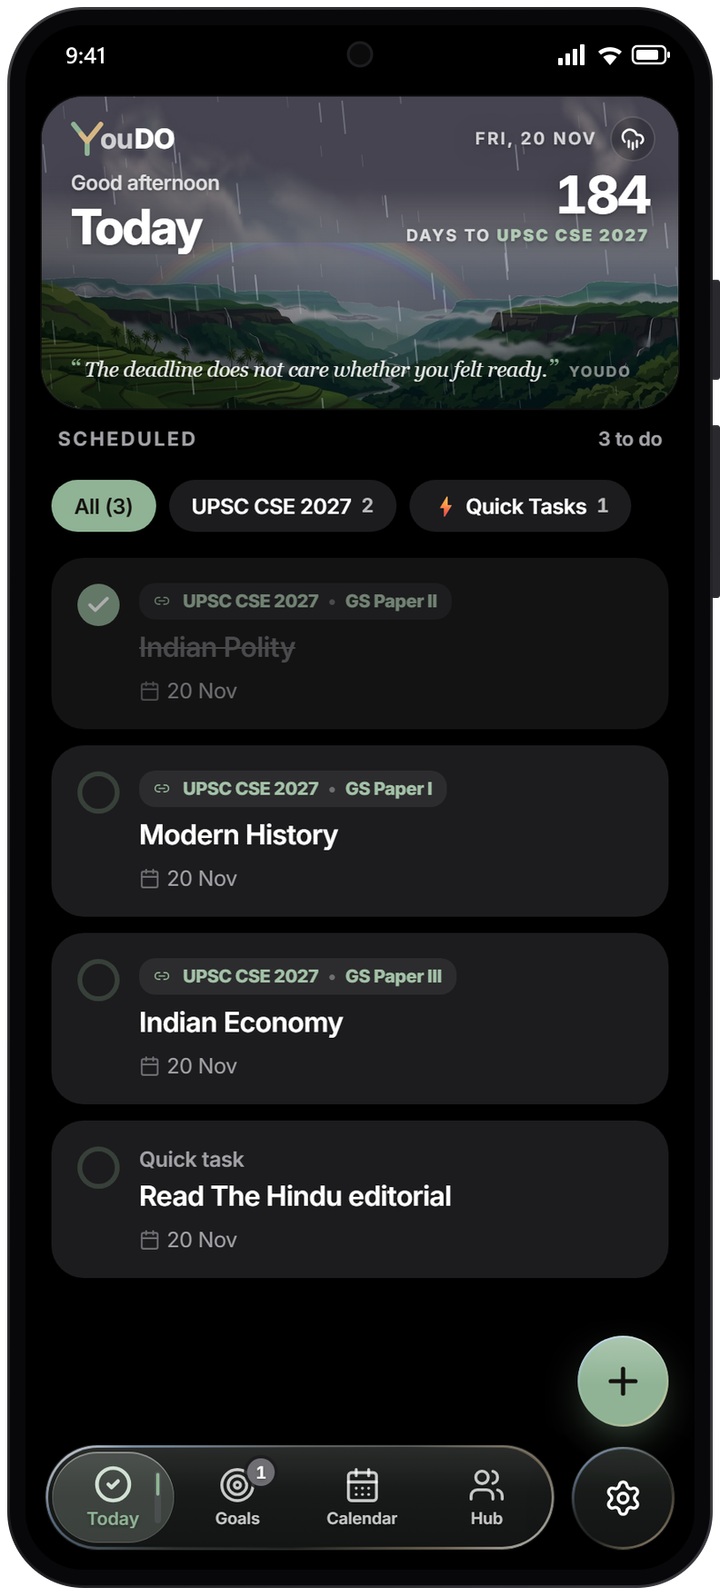
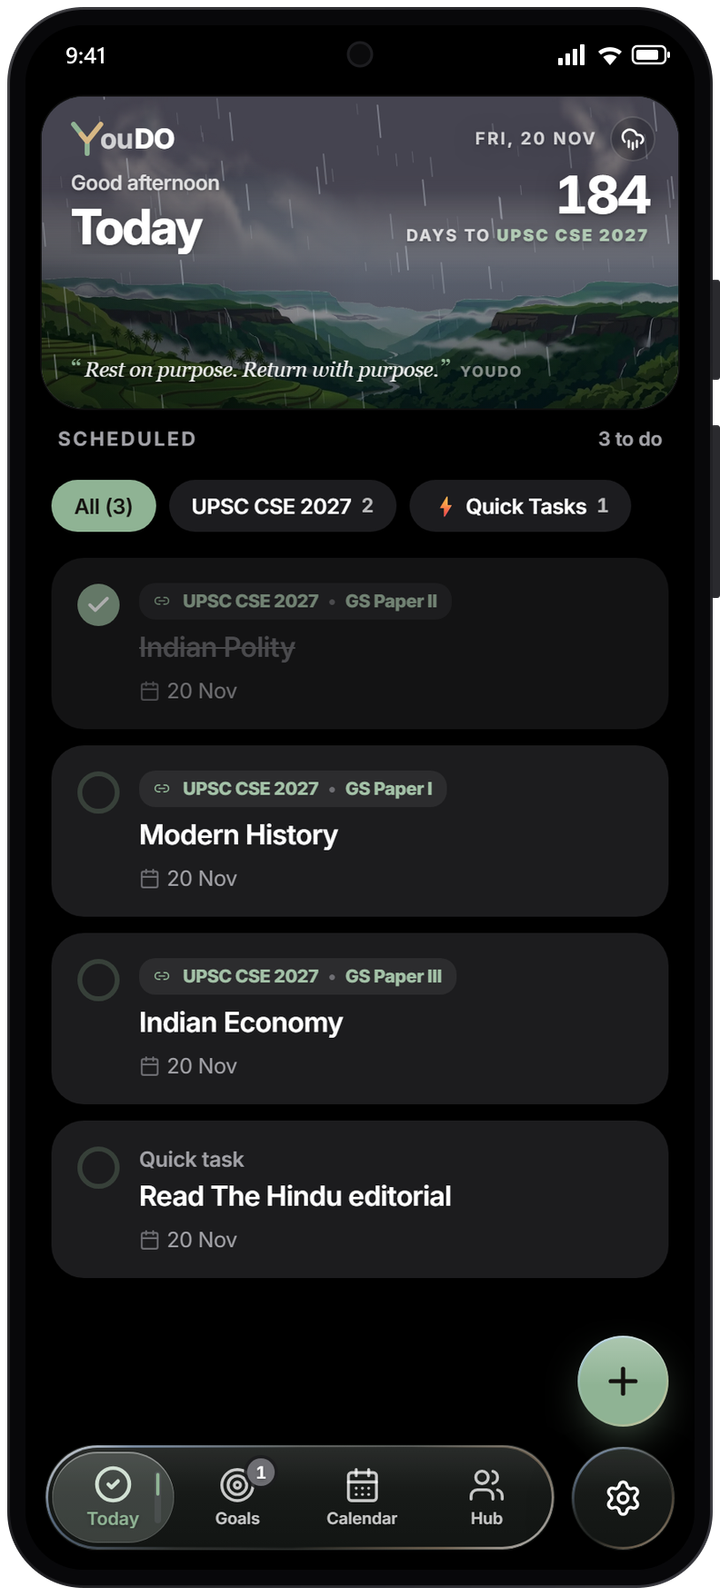
chore(release): v9.0.1 — no rainbow
The owner found the rainy-day rainbow unrealistic (a physically based
version was mocked too), so it is removed: drawing, weatherLook's
rainbow and rainbowStrength. The 10-scenes screenshot is retaken
without it. Version 9.0.1 (versionCode 102), CHANGELOG, store
changelog 102, README and HANDOFF.

Changed region(s): [[0.1222, 0.215, 0.7639, 0.2458], [0.7944, 0.215, 0.8556, 0.2458]]

diff --git a/src/components/SkyHeader.tsx b/src/components/SkyHeader.tsx
@@ -30,7 +30,7 @@ import { SCENES, sceneForAccent, sceneLand, type SceneId } from '../lib/headerSc
 import { SCENE_ART } from './sceneArt';
 import type { GoalNode } from '../types';
 import { deviceTimeZone, formatClock, isIndiaTimeZone, loadSkyPlace, saveSkyPlace, setSkyInviteDone, SKY_PLACE_EVENT, SKY_PLACES, skyInviteDone, sunDayForPlace } from '../lib/skyPlaces';
-import { loadDayWeather, nextWeather, rainbowStrength, saveDayWeather, SKY_WEATHER_EVENT, weatherButtonEnabled, weatherColors, weatherLook, type Weather } from '../lib/weather';
+import { loadDayWeather, nextWeather, saveDayWeather, SKY_WEATHER_EVENT, weatherButtonEnabled, weatherColors, type Weather } from '../lib/weather';
 import Overlay from './Overlay';
 import SkyWeather from './SkyWeather';
 import { sunAltitude, type SunDay } from '../lib/sunPath';
@@ -265,12 +265,8 @@ function SunLens({ x, y, intensity, warm, flare, width, height }: {
   );
 }
 
-const RAINBOW = ['#7d6bc4', '#5c86d8', '#5bb8c9', '#7cc78a', '#e2d576', '#efa868', '#e07468'];
-
 /** The scene: sky, sun or stars, the mountains. Coordinates as in OFFSET. */
-function SkyArt({ width, height, hour, day, weather, stars, lines, dust, night, land, place, sunPathD, quoteShade, flareLevel, palettes, rainbow }: {
-  /** Some rainy days' rainbow, behind the land: its centre, radius and how much shows (0–1). */
-  rainbow?: { cx: number; cy: number; r: number; strength: number } | null;
+function SkyArt({ width, height, hour, day, weather, stars, lines, dust, night, land, place, sunPathD, quoteShade, flareLevel, palettes }: {
   /** A scene's five skies and the light on its land (headerScenes.ts). */
   palettes: SkyPalettes;
   /** The scene's land: its picture and where it sits (sceneLand()). */
@@ -331,19 +327,6 @@ function SkyArt({ width, height, hour, day, weather, stars, lines, dust, night, 
         <SoftGlow id="sky-starbloom" color={(a) => `rgba(220,230,255,${a})`} peak={0.5} sigma={0.45} />
         <linearGradient id="sky-textshade" x1="0" y1="0" x2="1" y2="0"><stop offset="0" stopColor="rgba(0,0,0,.32)" /><stop offset=".5" stopColor="rgba(0,0,0,0)" /></linearGradient>
         <linearGradient id="sky-quoteshade" x1="0" y1="0" x2="0" y2="1"><stop offset="0" stopColor="rgba(4,14,26,0)" /><stop offset=".45" stopColor="rgba(4,14,26,.22)" /><stop offset="1" stopColor="rgba(4,12,22,.4)" /></linearGradient>
-        {rainbow && (
-          <>
-            {/* Clearest across the middle; its ends fade into the rain before they reach the ground. */}
-            <linearGradient id="sky-bow-along" x1="0" y1="0" x2="1" y2="0">
-              {[[0, 0], [0.22, 0.35], [0.4, 0.9], [0.5, 1], [0.6, 0.9], [0.78, 0.35], [1, 0]].map(([o, a]) => <stop key={o} offset={o} stopColor="#fff" stopOpacity={a} />)}
-            </linearGradient>
-            <linearGradient id="sky-bow-down" x1="0" y1="0" x2="0" y2="1">
-              <stop offset="0.45" stopColor="#fff" /><stop offset="0.72" stopColor="#777" /><stop offset="0.95" stopColor="#000" />
-            </linearGradient>
-            <mask id="sky-bow-along-mask"><rect x={rainbow.cx - rainbow.r - 20} y={top} width={2 * rainbow.r + 40} height={height - top} fill="url(#sky-bow-along)" /></mask>
-            <mask id="sky-bow-mask"><g mask="url(#sky-bow-along-mask)"><rect x={rainbow.cx - rainbow.r - 20} y={rainbow.cy - rainbow.r} width={2 * rainbow.r + 40} height={rainbow.r + 30} fill="url(#sky-bow-down)" /></g></mask>
-          </>
-        )}
         <filter id="sky-landlight" colorInterpolationFilters="sRGB" x="0" y="0" width="100%" height="100%">
           <feColorMatrix type="matrix" values={`${lr} 0 0 0 0  0 ${lg} 0 0 0  0 0 ${lb} 0 0  0 0 0 1 0`} />
         </filter>
@@ -371,15 +354,6 @@ function SkyArt({ width, height, hour, day, weather, stars, lines, dust, night, 
         </g>
       )}
       {sunPathD && <path d={sunPathD} className="sky-sunpath" fill="none" stroke="rgba(255,255,255,.7)" strokeWidth={1.3} strokeDasharray="0.5 5" strokeLinecap="round" />}
-      {rainbow && rainbow.strength > 0.01 && (
-        <g mask="url(#sky-bow-mask)">
-          {/* The sky is a touch lighter inside a rainbow. */}
-          <circle cx={rainbow.cx} cy={rainbow.cy} r={rainbow.r - 2} fill="#fff" opacity={0.07 * rainbow.strength} />
-          <g opacity={0.55 * rainbow.strength} fill="none">
-            {RAINBOW.map((c, i) => <circle key={c} cx={rainbow.cx} cy={rainbow.cy} r={rainbow.r + i * 2.4} stroke={c} strokeWidth={4.2} strokeOpacity={0.6} />)}
-          </g>
-        </g>
-      )}
       <image href={land.src} x={land.x} y={land.y} width={land.w} height={land.h} preserveAspectRatio="none" filter="url(#sky-landlight)" />
       {sun.visible && lens > 0.005 && <SunLens x={sunX} y={sunY} intensity={lens} warm={1 - sun.elevation} flare={flare} width={width} height={height} />}
       {quoteShade && <rect x="0" y={height - 92} width={width} height={92} fill="url(#sky-quoteshade)" />}
@@ -582,13 +556,6 @@ export default function SkyHeader({ view, name, quote, goals, focusMs, barHours,
   const place = useMemo(() => sunPlacement(width, sceneHour, day, track), [width, sceneHour, day, track]);
   const sunNow = useMemo(() => sunPlacement(width, hour, day, track), [width, hour, day, track]);
   const sunPath = useMemo(() => sunPathFor(width, day, ridges, track), [width, day, ridges, track]);
-  // About one rainy day in three has a rainbow (weatherLook), showing while the sun is low: mornings and late afternoons.
-  const bowLook = useMemo(() => (weather === 'rainy' && !photo ? weatherLook(dateKey, weather).rainbow : null), [dateKey, weather, photo]);
-  const bow = bowLook ? (() => {
-    const r = width * bowLook.radius;
-    const top = today ? 112 : 92;
-    return { cx: width * bowLook.centre, cy: top + r, r, strength: rainbowStrength(place.state.visible, sunAltitude(day, sceneHour), sceneNight) };
-  })() : null;
   const sunTappable = !photo && weather !== 'rainy' && sunNow.state.visible && replayHour === null;
   const daylightLeft = Math.max(0, day.sunset - hour);
   const playDay = () => {
@@ -639,7 +606,7 @@ export default function SkyHeader({ view, name, quote, goals, focusMs, barHours,
     ) : (
       <>
         <div className="sky-art-wrap" style={{ height: height + OFFSET }}>
-          <SkyArt width={width} height={height + OFFSET} hour={hour} day={day} weather={weather} stars={stars} lines={lines} dust={dust} night={sceneNight} land={{ src: SCENE_ART[sceneId], x: land.x, y: land.y, w: land.w, h: land.h }} place={place} sunPathD={pathShown ? sunPath.d : null} quoteShade={today && Boolean(quote)} flareLevel={lensFlare(sceneHour, day)} palettes={palettes} rainbow={bow} />
+          <SkyArt width={width} height={height + OFFSET} hour={hour} day={day} weather={weather} stars={stars} lines={lines} dust={dust} night={sceneNight} land={{ src: SCENE_ART[sceneId], x: land.x, y: land.y, w: land.w, h: land.h }} place={place} sunPathD={pathShown ? sunPath.d : null} quoteShade={today && Boolean(quote)} flareLevel={lensFlare(sceneHour, day)} palettes={palettes} />
           <SkyWeather weather={weather} dateKey={dateKey} width={width} height={height + OFFSET} night={night} sunLow={1 - Math.min(1, Math.max(0, sunHeight / 45))} still={folded} />
         </div>
       </>

diff --git a/src/lib/weather.test.ts b/src/lib/weather.test.ts
@@ -2,7 +2,7 @@ import { afterEach, describe, expect, it, vi } from 'vitest';
 import { skyColors } from './headerSky';
 import { SCENES } from './headerScenes';
 import { sunDay } from './sunPath';
-import { cloudField, cloudTones, loadDayWeather, nextWeather, rainbowStrength, saveDayWeather, weatherColors, weatherLook } from './weather';
+import { cloudField, cloudTones, loadDayWeather, nextWeather, saveDayWeather, weatherColors, weatherLook } from './weather';
 
 const DAY = sunDay('2026-11-20', 28.61, 77.21, 5.5);
 const brightness = (c: string) => {
@@ -128,30 +128,5 @@ describe('the day’s weather', () => {
     expect(loadDayWeather('2026-11-25', 'rainy')).toBe('cloudy');
     // A new day goes back to the scene's own.
     expect(loadDayWeather('2026-11-26', 'rainy')).toBe('rainy');
-  });
-});
-
-describe('the rainbow', () => {
-  it('comes on about one rainy day in three, never on cloudy or clear days, the same all day', () => {
-    let rainbows = 0;
-    for (let d = 0; d < 360; d++) {
-      const key = new Date(Date.UTC(2026, 0, 1 + d)).toISOString().slice(0, 10);
-      if (weatherLook(key, 'rainy').rainbow) rainbows++;
-      expect(weatherLook(key, 'cloudy').rainbow).toBeNull();
-      expect(weatherLook(key, 'clear').rainbow).toBeNull();
-      expect(weatherLook(key, 'rainy')).toEqual(weatherLook(key, 'rainy'));
-    }
-    expect(rainbows).toBeGreaterThan(90);
-    expect(rainbows).toBeLessThan(150);
-  });
-
-  it('shows only while the sun is up and low: mornings and late afternoons', () => {
-    expect(rainbowStrength(true, 20, 0)).toBe(1);
-    expect(rainbowStrength(true, 45, 0)).toBe(0); // noon
-    expect(rainbowStrength(true, 1, 0)).toBe(0); // the sun on the horizon
-    expect(rainbowStrength(false, 20, 0)).toBe(0);
-    expect(rainbowStrength(true, 20, 0.6)).toBe(0); // night
-    expect(rainbowStrength(true, 34, 0)).toBeGreaterThan(0);
-    expect(rainbowStrength(true, 34, 0)).toBeLessThan(1); // easing out as the sun climbs
   });
 });

diff --git a/src/lib/weather.ts b/src/lib/weather.ts
@@ -108,8 +108,6 @@ export interface WeatherLook {
   /** 1: the wind blows to the left; -1: to the right. Clouds and rain agree. */
   direction: 1 | -1;
   rain: { drops: number; wind: number; speed: number; seed: number };
-  /** A rainbow on about one rainy day in three: where its middle stands (fraction of the width) and its size (fraction of the width). */
-  rainbow: { centre: number; radius: number } | null;
 }
 
 /** A date string → a 32-bit seed. */
@@ -161,21 +159,7 @@ export function weatherLook(dateKey: string, weather: Weather): WeatherLook {
     speed: between(0.88, 1.12),
     seed: Math.floor(rand() * 2147483646) + 1,
   };
-  // Drawn after everything else, so adding the rainbow changed no day's clouds or rain.
-  const rainbow = rainy && rand() < 1 / 3 ? { centre: between(0.3, 0.52), radius: between(0.3, 0.36) } : null;
-  return { layers, direction, rain, rainbow };
-}
-
-/**
- * How much of a rainbow shows (0–1): only while the sun is up and low, as a
- * real one needs (under about 40° high, behind the viewer): mornings and late
- * afternoons, never at noon or at night. It eases in and out with the sun.
- */
-export function rainbowStrength(sunUp: boolean, altitude: number, night: number): number {
-  if (!sunUp || night > 0.4) return 0;
-  const rise = Math.min(1, Math.max(0, (altitude - 3) / 7));
-  const high = Math.min(1, Math.max(0, (38 - altitude) / 8));
-  return rise * high * (1 - night / 0.4);
+  return { layers, direction, rain };
 }
 
 // ── How the weather changes the sky ─────────────────────────────────────────

diff --git a/src/lib/version.ts b/src/lib/version.ts
@@ -1,1 +1,1 @@
-export const APP_VERSION = '9.0.0';
+export const APP_VERSION = '9.0.1';

diff --git a/HANDOFF.md b/HANDOFF.md
@@ -1,12 +1,12 @@
 # Where We Left Off
 
-Last updated **2026-11-25**, just after releasing **v9.0.0** (versionCode 101, "Your Place, Your Colour"; pull request #95, merge commit 6a48e9c, tag v9.0.0). Read this file first when coming back, then [AGENTS.md](AGENTS.md) (how we work) and [RELEASE_PROCEDURE.md](RELEASE_PROCEDURE.md) (how we ship).
+Last updated **2026-11-25**, just after releasing **v9.0.1** (versionCode 102: the rainbow removed, and the 10-scenes screenshot retaken without it), the same day as **v9.0.0** (versionCode 101, "Your Place, Your Colour"; pull request #95, merge commit 6a48e9c). Read this file first when coming back, then [AGENTS.md](AGENTS.md) (how we work) and [RELEASE_PROCEDURE.md](RELEASE_PROCEDURE.md) (how we ship).
 
 ---
 
 ## v9.0.0 (versionCode 101): what it contains
 
-Released 2026-11-25 from pull request #95 (merge 6a48e9c, tag v9.0.0). The first APK build on main failed on a Maven Central rate limit (429) and passed on a re-run. Orion's screenshots were requested pinned to 6a48e9c (RookieEnough/Orion-Data#3415; order: 01 Today, 10 Scenes, 11 Focus Sky, 03 Goals, 04 Focus session, 05 Calendar, 02 Today at a glance, 09 Appearance). None of this has been tried on a phone yet: the phone checks below come next. The mocks in `docs/mocks/` stay local and are never committed.
+Released 2026-11-25 from pull request #95 (merge 6a48e9c, tag v9.0.0). The first APK build on main failed on a Maven Central rate limit (429) and passed on a re-run. Orion's screenshots were first requested pinned to 6a48e9c (RookieEnough/Orion-Data#3415, closed because 10-scenes showed the rainbow) and requested again pinned to the v9.0.1 merge commit (same order: 01 Today, 10 Scenes, 11 Focus Sky, 03 Goals, 04 Focus session, 05 Calendar, 02 Today at a glance, 09 Appearance). None of this has been tried on a phone yet: the phone checks below come next. The mocks in `docs/mocks/` stay local and are never committed.
 
 **1. A new Admin Hub, with one owner and many admins** (`src/components/AdminHubSheet.tsx`, `src/components/admin/`, `src/lib/adminHub.ts`, `supabase/admin_hub.sql`).
 - Five tabs:
@@ -80,7 +80,7 @@ Released 2026-11-25 from pull request #95 (merge 6a48e9c, tag v9.0.0). The first
 
 **8. Scenes: the header's landscape and the app's colour, chosen together** (mocked and chosen by the owner; `src/lib/headerScenes.ts`, `src/components/ScenePicker.tsx`, `src/lib/accentColors.ts`).
 - **Why:** at midday the old blue sky clashed with the default Sand accent around it. Now each accent comes with its own landscape and skies, so they always match.
-- **Three scenes, from the owner's pictures** (made in Gemini from prompts in one shared style, so they look like a set; reworked after the drawn versions didn't read as their places): **Harvest fields** (Sand, the default): wheat, haystacks, a dirt track, kikar trees. **Himalaya** (Slate): a snow massif and glaciers, misty valleys, pines and a small stupa (labelled "Snow peaks of the Himalaya": the picture is Himachal-like, not Ladakh's bare desert). **Western Ghats** (Sage): flat-topped basalt cliffs, waterfalls, a river gorge, monsoon mist, terraces, palms, a ghat road. Each picture's sky was removed (src/assets/scenes/*.webp, 2000 px wide, 64–82 KB, loaded with the lazy header and precached for offline), so the live sky, sun, glare, lens flare, weather, earned stars and constellation and the time-lapse work as before; the sun rises and sets behind each picture's traced ridge (`sceneLand`). Each sky time sets the light on the land (`land`, multiplied in: golden at sunrise, rose at golden hour, deep blue at night), with a gentle lean toward the scene's accent; cloud and rain dim it. On Today the picture is zoomed in on its best part; on the other tabs it sits lower, under the title. The drawn landscapes (sceneShape, the marks) are gone. Same header sizes. **Default weather per scene** (owner's idea): a new day starts clear on the fields, cloudy over the Himalaya and rainy in the Ghats (`SceneInfo.weather`, `loadDayWeather(date, start)`); the weather button still changes it, switching scenes before tapping it follows the new scene, and with the button off the sky stays clear. **Clouds** have wide, eased edges (no crisp rims) and drift about half as fast as before (`CLOUD_EDGE`, `weatherLook` seconds). **A rainbow** on about one rainy day in three (`weatherLook().rainbow`, from the date, so steady all day and the same on every device), only while the sun is up and low (3°–38°: mornings and late afternoons, never noon or night, `rainbowStrength`): faint, soft overlapping bands behind the land, clearest across the middle, its ends fading before the ground, the sky a touch lighter inside; never on cloudy or clear days or with a photo header. **The Summit was retired** (owner's choice, after the scenes): a saved Summit choice shows the scene; summit.ts is gone; `docs/screenshots/10-summit.png` left the README and should leave Orion's list at the next screenshot update. Thar, Deccan and Konkan were drawn and dropped by the owner.
+- **Three scenes, from the owner's pictures** (made in Gemini from prompts in one shared style, so they look like a set; reworked after the drawn versions didn't read as their places): **Harvest fields** (Sand, the default): wheat, haystacks, a dirt track, kikar trees. **Himalaya** (Slate): a snow massif and glaciers, misty valleys, pines and a small stupa (labelled "Snow peaks of the Himalaya": the picture is Himachal-like, not Ladakh's bare desert). **Western Ghats** (Sage): flat-topped basalt cliffs, waterfalls, a river gorge, monsoon mist, terraces, palms, a ghat road. Each picture's sky was removed (src/assets/scenes/*.webp, 2000 px wide, 64–82 KB, loaded with the lazy header and precached for offline), so the live sky, sun, glare, lens flare, weather, earned stars and constellation and the time-lapse work as before; the sun rises and sets behind each picture's traced ridge (`sceneLand`). Each sky time sets the light on the land (`land`, multiplied in: golden at sunrise, rose at golden hour, deep blue at night), with a gentle lean toward the scene's accent; cloud and rain dim it. On Today the picture is zoomed in on its best part; on the other tabs it sits lower, under the title. The drawn landscapes (sceneShape, the marks) are gone. Same header sizes. **Default weather per scene** (owner's idea): a new day starts clear on the fields, cloudy over the Himalaya and rainy in the Ghats (`SceneInfo.weather`, `loadDayWeather(date, start)`); the weather button still changes it, switching scenes before tapping it follows the new scene, and with the button off the sky stays clear. **Clouds** have wide, eased edges (no crisp rims) and drift about half as fast as before (`CLOUD_EDGE`, `weatherLook` seconds). **No rainbow:** v9.0.0 drew one on about one rainy day in three; the owner found it unrealistic (a fuller, physically based version was mocked too) and v9.0.1 removed it. **The Summit was retired** (owner's choice, after the scenes): a saved Summit choice shows the scene; summit.ts is gone; `docs/screenshots/10-summit.png` left the README and should leave Orion's list at the next screenshot update. Thar, Deccan and Konkan were drawn and dropped by the owner.
 - **Accents:** Sand, Slate, Sage, or **Your photo**. Older choices move: clay to Sand; plum and graphite to Slate (`resolveAccent`).
 - **Your photo:** Settings → Appearance → Scene and colour → Your photo picks a photo (or uses the header photo), then suggests five colours found in it (k-means on the phone, `photoColors`), or a tap anywhere on the photo takes that spot. It becomes a soft dark-mode tone and a deeper light-mode one (`accentFromColor`), set as inline `--primary` / `--accent-tick` on <html>; widgets and notification icons follow it (`storedAccentSwatch`). Choosing a scene card switches a photo header back to the scene. The photo, its colour, its placement (Horizontal, Vertical, Opacity), Change and Remove all live in Your photo; under the cards (while a scene is the header) are "Sunrise and sunset for" (the sky location) and the weather button. The old Header background card is gone.
 - **The header has no planet any more:** its night sky is only the stars you earned and the constellation. The planet of the day stays on the ambient screen, and on Sundays there it shows nothing (no Sun in a night sky).
@@ -135,7 +135,7 @@ Released 2026-11-25 from pull request #95 (merge 6a48e9c, tag v9.0.0). The first
 - **Growth:** the next day, the readout and chart show yesterday's phones; tap a few days and weeks, ✕ goes back; downloads load. **Home:** today's tiles, Worth a look (cleanup opens Account cleanup), and as an admin only the two tiles.
 - **Count my visits:** turn it off in Settings; it stays off after a restart.
 - **Account cleanup:** each filter; search; tick one obvious junk account and delete it (type DELETE 1); it disappears and Growth's sign-ups for its week stay the same.
-- **Scenes:** each of the three pictures at dawn, noon, sunset and night, sharp on the phone (fine wheat and pines); the Ghats raining by default, the Himalaya cloudy, the fields clear, and the weather button still changing them; soft, slow clouds; on a rainy morning or late afternoon, sometimes a faint rainbow (none at noon or night); Goals, Calendar and Hub headers with the land under the title; switch between them in Settings; Your photo: choose one, try a suggested colour and a tap on the photo, check buttons in dark and light mode, a widget and a notification icon; an old install that used plum, clay or graphite opens on the nearest scene; no planet in the header at night.
+- **Scenes:** each of the three pictures at dawn, noon, sunset and night, sharp on the phone (fine wheat and pines); the Ghats raining by default, the Himalaya cloudy, the fields clear, and the weather button still changing them; soft, slow clouds; no rainbow on any day (v9.0.1); Goals, Calendar and Hub headers with the land under the title; switch between them in Settings; Your photo: choose one, try a suggested colour and a tap on the photo, check buttons in dark and light mode, a widget and a notification icon; an old install that used plum, clay or graphite opens on the nearest scene; no planet in the header at night.
 - **Streak restore:** after a day that only looked missed at midnight (a session running past it, or focus synced later), no "Save streak" card or chips the next day (`reconcileStreakMeta` closes a restore whose missed day reached the bar). **Session Summary:** a "Session" chip with its times and a "Paused …" chip per pause.
 - **Room members (Admin Hub):** Community → Hashtag rooms → tap a room; Muted and Banned filters; tap a person, their Admin card opens.
 
@@ -143,7 +143,7 @@ Released 2026-11-25 from pull request #95 (merge 6a48e9c, tag v9.0.0). The first
 
 ## Current state
 
-- **Latest release:** v9.0.0, versionCode 101 (released 2026-11-25). Before it: v8.9.0, versionCode 100, released 2026-11-21.
+- **Latest release:** v9.0.1, versionCode 102 (released 2026-11-25): only removes the rainbow, no server change. Before it: v9.0.0, versionCode 101 (released 2026-11-25). Before it: v8.9.0, versionCode 100, released 2026-11-21.
   - It is on GitHub Releases with `YouDO.apk`.
   - The website https://youdo-app.vercel.app deploys from `main`.
 - **Git:** only the `main` branch should remain once `fixes` is merged and deleted.

diff --git a/README.md b/README.md
@@ -189,7 +189,7 @@ Set your own **profile photo** (moved and zoomed to fit, kept small), and Foundi
 
 v8 brings a new look: large titles, borderless cards and a floating **Liquid Glass** tab bar. In **Settings → Preferences** pick Dark or Light, a scene and its colour (Harvest fields with Sand, Himalaya with Slate, Western Ghats with Sage, or a colour taken from your own photo; the start screen, header, widgets and notifications follow it) and one of five app icons. **Classic Look** brings back the v7 design ([v7 screenshots](docs/screenshots/v7-classic)).
 
-Every tab opens with a **sky header**: an illustrated Indian landscape (the harvest fields, the Himalaya or the Western Ghats, the scene that goes with your colour) under a live sky that follows the real sun for your place (sunrise, noon and sunset from the date and your time zone or Indian state, with no location access), today's earned focus stars at night, a greeting, the countdown to your nearest goal deadline and the day's quote. Each scene starts the day with its own weather (sun on the fields, cloud over the Himalaya, monsoon rain in the Ghats, and now and then a rainbow on a rainy morning or evening); change it with the button beside the date, and tap the sun to replay today's sky from dawn to now. In **Settings → Appearance → Scene and colour** pick the scene (and its colour), where your sunrise and sunset are worked out for, and the weather button; or use your own photo as the header and take the app's colour from it.
+Every tab opens with a **sky header**: an illustrated Indian landscape (the harvest fields, the Himalaya or the Western Ghats, the scene that goes with your colour) under a live sky that follows the real sun for your place (sunrise, noon and sunset from the date and your time zone or Indian state, with no location access), today's earned focus stars at night, a greeting, the countdown to your nearest goal deadline and the day's quote. Each scene starts the day with its own weather (sun on the fields, cloud over the Himalaya, monsoon rain in the Ghats); change it with the button beside the date, and tap the sun to replay today's sky from dawn to now. In **Settings → Appearance → Scene and colour** pick the scene (and its colour), where your sunrise and sunset are worked out for, and the weather button; or use your own photo as the header and take the app's colour from it.
 
 ## Your data remains yours
 

diff --git a/CHANGELOG.md b/CHANGELOG.md
@@ -17,6 +17,13 @@ Guidance: keep 3–6 short, user-facing bullets. Group related small fixes under
 
 ---
 
+## [v9.0.1] - 2026-11-25 - No Rainbow
+
+- **No rainbow** — The rainbow on some rainy days is gone: it didn't look real. The rain, clouds and each scene's weather stay as they were.
+- **Android APK** — versionName **9.0.1**, versionCode **102**. Installs over v9.0.0 (101).
+
+---
+
 ## [v9.0.0] - 2026-11-25 - Your Place, Your Colour
 
 - **Three Indian scenes** — The header is now the harvest fields, the Himalaya or the Western Ghats, matched to your colour (Sand, Slate or Sage), under a live sky: the real sunrise and sunset, your earned stars at night, each scene's own weather, and now and then a rainbow after rain. Or take the colour from your own photo.
